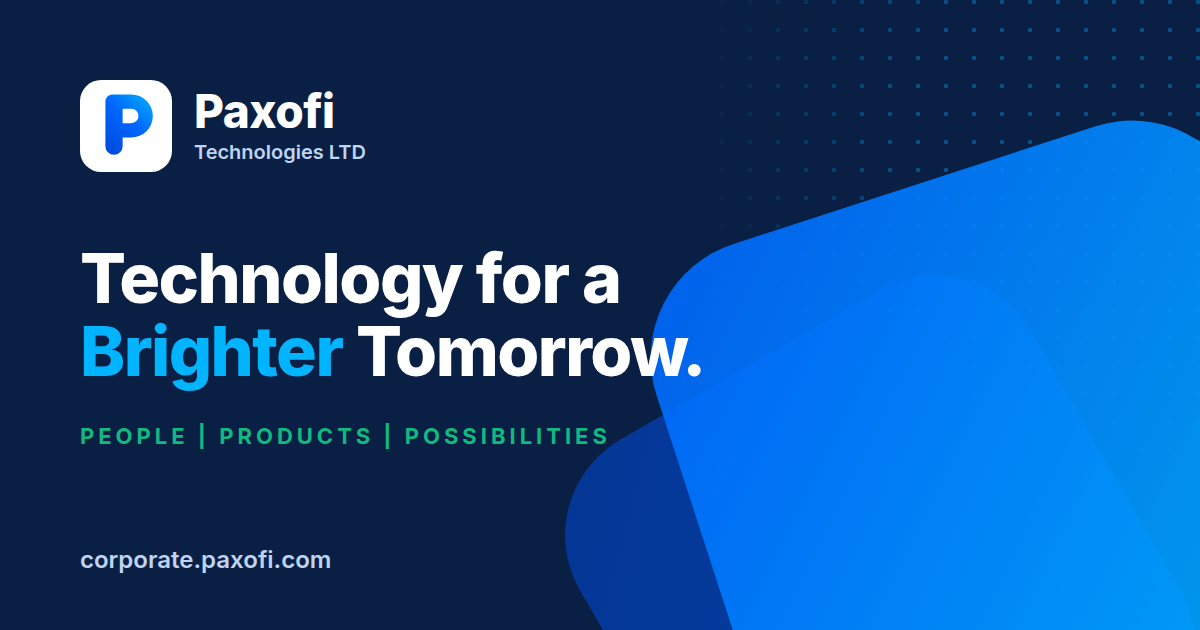
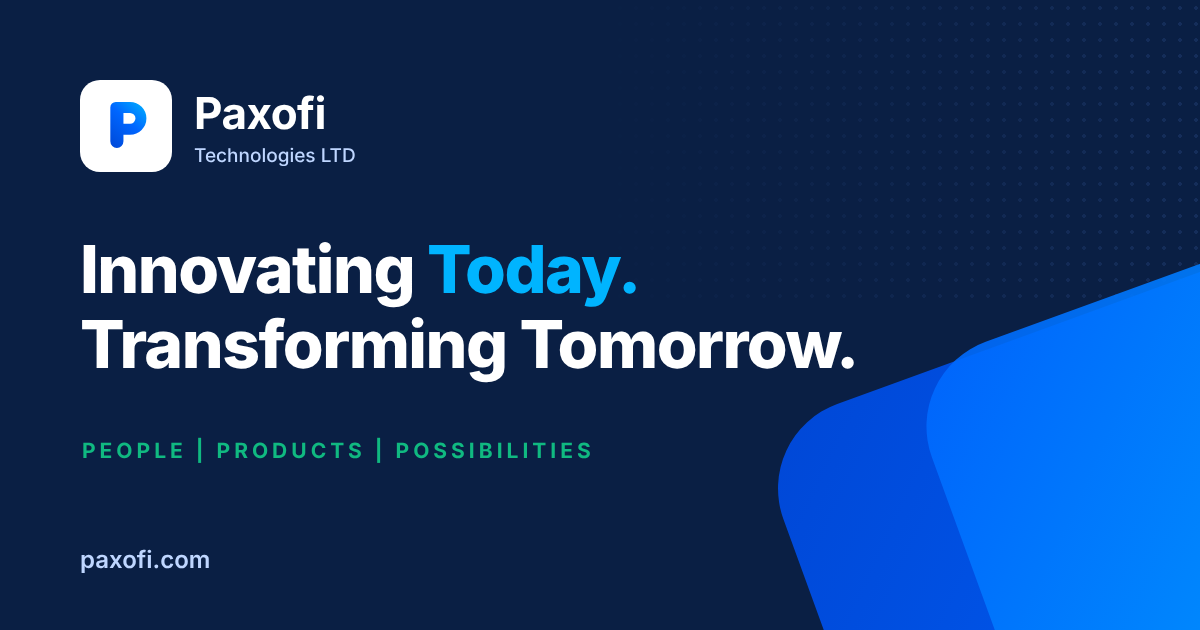
Taglines and share images (D-034); welcome email for new staff accounts
- paxofi.com: "Innovating Today. Transforming Tomorrow." as home headline
  default, browser title and share image (which also still said
  corporate.paxofi.com).
- careers.paxofi.com: "Build. Learn. Contribute." heading, "Real projects.
  Real mentors. Real growth." in the introduction, share description and
  its own share image /og-careers.png. scripts/share-images.mjs draws both.
- Users → Add user without a password queues a welcome email with a
  one-time link (72 hours) to choose a password; the account gets a random
  unusable password meanwhile. Without email the form asks for a temporary
  password, as before. Audited as staff.welcome_sent.
- Tests: integration (welcome email, link, sign-in; no email → 422), e2e
  for the Users form. Docs: D-034, RB-11, UAT U1, baseline.

Claude-Session: https://claude.ai/code/session_01FCYfkeKhnnwdTpLa6sCqyS

diff --git a/frontend/app/admin/(staff)/users/StaffUsers.tsx b/frontend/app/admin/(staff)/users/StaffUsers.tsx
@@ -39,7 +39,7 @@ export default function StaffUsers() {
     <>
       <h1 className="admin-title">Users</h1>
       <p className="admin-intro">
-        Staff who can sign in. Give each person a temporary password through a secure channel and ask them to change it on their account page.
+        Staff who can sign in. A new person gets a welcome email with a link to choose their own password (valid for 72 hours). Without email, set a temporary password and pass it on through a secure channel.
       </p>
       <FormStatus state="success" message={notice} />
       <FormStatus state="error" message={error} />
@@ -92,9 +92,11 @@ function CreateUser({ roles, onCreated }: { roles: RoleOption[]; onCreated: (mes
     setFields({});
     setError("");
     try {
-      const result = await request<StaffUser>("/users", { method: "POST", body: formValues(form) });
+      const result = await request<StaffUser & { welcome_email_sent?: boolean }>("/users", { method: "POST", body: formValues(form) });
       form.reset();
-      onCreated(`${result.data.display_name} can now sign in with the temporary password you set.`);
+      onCreated(result.data.welcome_email_sent
+        ? `${result.data.display_name} was added. A welcome email with a link to choose their password is on its way to ${result.data.email} (valid for 72 hours).`
+        : `${result.data.display_name} can now sign in with the temporary password you set.`);
     } catch (e) {
       if (e instanceof AdminApiError) {
         setFields(e.fields);
@@ -114,13 +116,12 @@ function CreateUser({ roles, onCreated }: { roles: RoleOption[]; onCreated: (mes
       <RoleSelect roles={roles} error={fields.role} />
       <Field
         name="password"
-        label="Temporary password"
+        label="Temporary password (optional)"
         type="password"
         autoComplete="new-password"
-        required
         minLength={12}
         maxLength={256}
-        hint={PASSWORD_HINT}
+        hint={`Leave empty to send a welcome email with a link to choose their own password. ${PASSWORD_HINT}`}
         error={fields.password}
       />
       <FormStatus state="error" message={error} />

diff --git a/frontend/app/careers-site/layout.tsx b/frontend/app/careers-site/layout.tsx
@@ -5,11 +5,11 @@ import { ArrowUpRight, Mail } from "lucide-react";
 import Logo from "@/components/Logo";
 import CampaignCapture from "./CampaignCapture";
 import { RECRUITMENT_EMAIL, careersSiteUrl } from "@/lib/careers";
-import { SHARE_IMAGE, SITE, siteUrl } from "@/lib/site";
+import { CAREERS_SHARE_IMAGE, SITE, siteUrl } from "@/lib/site";
 import { isStaging } from "@/lib/staging";
 
 const DESCRIPTION =
-  "Join the Paxofi Innovation Fellowship (PIF 2026) as a Fellow, Intern or Volunteer: remote, mentored, with real projects. An unpaid learning programme.";
+  "Build. Learn. Contribute. Join the Paxofi Innovation Fellowship (PIF 2026) as a Fellow, Intern or Volunteer: remote, mentored, with real projects. An unpaid learning programme.";
 
 /** careers.paxofi.com (D-018): its own address, title and search settings, read at run time. */
 export function generateMetadata(): Metadata {
@@ -18,8 +18,8 @@ export function generateMetadata(): Metadata {
     title: { default: "Careers at Paxofi — Paxofi Innovation Fellowship", template: "%s | Paxofi Careers" },
     description: DESCRIPTION,
     alternates: { canonical: "/" },
-    openGraph: { siteName: "Paxofi Careers", type: "website", url: "/", title: "Careers at Paxofi", description: DESCRIPTION, images: [SHARE_IMAGE] },
-    twitter: { card: "summary_large_image", title: "Careers at Paxofi", description: DESCRIPTION, images: [SHARE_IMAGE.url] },
+    openGraph: { siteName: "Paxofi Careers", type: "website", url: "/", title: "Careers at Paxofi", description: DESCRIPTION, images: [CAREERS_SHARE_IMAGE] },
+    twitter: { card: "summary_large_image", title: "Careers at Paxofi", description: DESCRIPTION, images: [CAREERS_SHARE_IMAGE.url] },
     robots: isStaging() ? { index: false, follow: false } : { index: true, follow: true },
   };
 }

diff --git a/frontend/app/layout.tsx b/frontend/app/layout.tsx
@@ -1,7 +1,7 @@
 import "@fontsource-variable/inter";
 import "./globals.css";
 import type { Metadata, Viewport } from "next";
-import { SHARE_IMAGE, SITE, siteUrl } from "@/lib/site";
+import { SHARE_IMAGE, SITE, TAGLINE, siteUrl } from "@/lib/site";
 import { isStaging } from "@/lib/staging";
 
 // Render every page per request. Prerendered pages are sent with
@@ -14,7 +14,7 @@ export const dynamic = "force-dynamic";
 
 const metadata: Metadata = {
   metadataBase: new URL(siteUrl()),
-  title: { default: `${SITE.name} — Technology for a Brighter Tomorrow`, template: `%s | ${SITE.name}` },
+  title: { default: `${SITE.name} — ${TAGLINE}`, template: `%s | ${SITE.name}` },
   description: SITE.description,
   openGraph: { siteName: SITE.name, type: "website", url: "/", title: SITE.name, description: SITE.description, images: [SHARE_IMAGE] },
   twitter: { card: "summary_large_image", title: SITE.name, description: SITE.description, images: [SHARE_IMAGE.url] },

diff --git a/frontend/lib/site.ts b/frontend/lib/site.ts
@@ -18,8 +18,19 @@ export const SHARE_IMAGE = {
   url: "/og-image.png",
   width: 1200,
   height: 630,
-  alt: "Paxofi Technologies — Technology for a Brighter Tomorrow.",
+  alt: "Paxofi Technologies — Innovating Today. Transforming Tomorrow.",
 };
+
+/** careers.paxofi.com share image: the PIF campaign headline (D-034). */
+export const CAREERS_SHARE_IMAGE = {
+  url: "/og-careers.png",
+  width: 1200,
+  height: 630,
+  alt: "Paxofi Innovation Fellowship — Build. Learn. Contribute.",
+};
+
+/** Corporate tagline (D-034). */
+export const TAGLINE = "Innovating Today. Transforming Tomorrow.";
 
 /**
  * Canonical site origin without a trailing slash (D-033: https://paxofi.com).

diff --git a/backend/tests/Integration/EmailTest.php b/backend/tests/Integration/EmailTest.php
@@ -129,6 +129,49 @@ final class EmailTest extends DatabaseTestCase
         );
     }
 
+    public function testANewStaffAccountGetsAWelcomeEmailToChooseItsOwnPassword(): void
+    {
+        $this->setupAdmin();
+        $admin = $this->signIn();
+        $app = $this->app();
+        $created = $this->call($app, 'POST', '/api/v1/admin/users', ['email' => 'Opeyemi@Paxofi.com', 'display_name' => 'Opeyemi Ogunshina', 'role' => 'human_resources'], $admin);
+        self::assertSame(201, $created->status(), $created->body());
+        self::assertTrue(self::decode($created)['data']['welcome_email_sent']);
+        $app->afterResponse();
+
+        $welcome = $this->mail->sent[count($this->mail->sent) - 1];
+        self::assertSame(['opeyemi@paxofi.com'], $welcome->to);
+        self::assertSame('Your Paxofi staff account', $welcome->subject);
+        self::assertStringContainsString('Samuel Adeniji has created a Paxofi staff account for you (Human Resources)', $welcome->text);
+        self::assertStringContainsString('within 72 hours', $welcome->text);
+        self::assertSame(1, preg_match('~https://corporate\.paxofi\.com/admin/reset-password#([A-Za-z0-9_-]{43})~', $welcome->text, $m));
+        self::assertSame('2026-10-07 10:00:00', self::scalar("SELECT expires_at FROM password_resets"), '72 hours');
+        self::assertSame(401, $this->call($this->app(), 'POST', '/api/v1/admin/session', ['email' => 'opeyemi@paxofi.com', 'password' => 'Guessing a pass phrase 1'])->status(), 'no usable password before the link');
+
+        self::assertSame(200, $this->call($this->app(), 'POST', '/api/v1/admin/password-reset/complete', ['token' => $m[1], 'password' => 'Her own pass phrase 2026'])->status());
+        self::assertSame(200, $this->call($this->app(), 'POST', '/api/v1/admin/session', ['email' => 'opeyemi@paxofi.com', 'password' => 'Her own pass phrase 2026'])->status());
+        self::assertSame(1, (int) self::scalar("SELECT COUNT(*) FROM audit_events WHERE action = 'staff.welcome_sent' AND outcome = 'success'"));
+
+        // A temporary password still works the old way, without an email.
+        $before = count($this->mail->sent);
+        $withPassword = $this->app();
+        $other = $this->call($withPassword, 'POST', '/api/v1/admin/users', ['email' => 'bd@paxofi.com', 'display_name' => 'Business Dev', 'role' => 'business_development', 'password' => 'Temporary pass phrase 7'], $admin);
+        self::assertSame(201, $other->status());
+        self::assertFalse(self::decode($other)['data']['welcome_email_sent']);
+        $withPassword->afterResponse();
+        self::assertCount($before, $this->mail->sent);
+    }
+
+    public function testWithoutEmailANewAccountNeedsATemporaryPassword(): void
+    {
+        $this->setupAdmin();
+        $admin = $this->signIn();
+        $response = $this->call($this->app(withMail: false), 'POST', '/api/v1/admin/users', ['email' => 'hr@paxofi.com', 'display_name' => 'HR', 'role' => 'human_resources'], $admin);
+        self::assertSame(422, $response->status());
+        self::assertStringContainsString('Email is not set up', self::decode($response)['error']['details']['fields']['password']);
+        self::assertSame(0, (int) self::scalar("SELECT COUNT(*) FROM users WHERE email = 'hr@paxofi.com'"));
+    }
+
     public function testResetLinksExpireAndRequestsAreLimited(): void
     {
         $this->setupAdmin();
@@ -204,10 +247,24 @@ final class EmailTest extends DatabaseTestCase
         self::assertSame(201, $response->status(), $response->body());
     }
 
-    /** @param array<string, mixed> $payload */
-    private function call(ApiApplication $app, string $method, string $uri, array $payload): HttpResponse
+    /** Signs the founder in; returns the session cookie value. */
+    private function signIn(): string
     {
-        return $app->handle(self::request($method, $uri, ['origin' => self::ORIGIN, 'content-type' => 'application/json'], json_encode($payload, JSON_THROW_ON_ERROR)));
+        $response = $this->call($this->app(), 'POST', '/api/v1/admin/session', ['email' => 'founder@paxofi.com', 'password' => self::PASSWORD]);
+        self::assertSame(1, preg_match('/^(?:__Host-)?paxofi_admin=([^;]+);/', (string) $response->header('set-cookie'), $match), $response->body());
+
+        return $match[1];
+    }
+
+    /** @param array<string, mixed> $payload */
+    private function call(ApiApplication $app, string $method, string $uri, array $payload, ?string $cookie = null): HttpResponse
+    {
+        $headers = ['origin' => self::ORIGIN, 'content-type' => 'application/json'];
+        if ($cookie !== null) {
+            $headers['cookie'] = 'paxofi_admin=' . $cookie;
+        }
+
+        return $app->handle(self::request($method, $uri, $headers, json_encode($payload, JSON_THROW_ON_ERROR)));
     }
 
     private function app(bool $withMail = true): ApiApplication

diff --git a/backend/src/Application/Admin/StaffAdminService.php b/backend/src/Application/Admin/StaffAdminService.php
@@ -21,6 +21,7 @@ final class StaffAdminService
         private readonly PasswordHashing $hasher,
         private readonly AuditRecorder $audit,
         private readonly TransactionManager $transactions,
+        private readonly ?PasswordResetService $welcome = null,
     ) {
     }
 
@@ -30,14 +31,25 @@ final class StaffAdminService
         return array_map(static fn (StaffUser $user): array => $user->toArray(), $this->staff->all());
     }
 
-    /** Creates an account with a temporary password the administrator passes on securely. */
+    /**
+     * Creates an account. Without a password, and with email set up, the person
+     * gets a welcome email with a one-time link to choose their own (D-034);
+     * with a password, the administrator passes that temporary password on.
+     */
     public function create(array $input, AuthenticatedStaff $actor, RequestContext $context): array
     {
         $errors = [];
         $email = StaffInput::email($input, $errors);
         $name = (string) StaffInput::displayName($input, $errors);
         $role = StaffInput::role($input, $errors);
-        $password = StaffInput::password($input, $email, $errors);
+        $invite = trim(is_string($input['password'] ?? null) ? $input['password'] : '') === '';
+        if ($invite && ($this->welcome === null || !$this->welcome->available())) {
+            $errors['password'] = 'Email is not set up, so enter a temporary password and pass it on yourself.';
+            $password = '';
+        } else {
+            // An invited account gets a random password nobody knows until the link is used.
+            $password = $invite ? bin2hex(random_bytes(32)) : StaffInput::password($input, $email, $errors);
+        }
         if ($errors !== []) {
             throw new ValidationFailed($errors, 'Please correct the highlighted fields.');
         }
@@ -45,14 +57,17 @@ final class StaffAdminService
             throw new Conflict('An account with this email already exists.');
         }
 
-        $id = $this->transactions->transaction(function () use ($email, $name, $role, $password, $actor, $context): string {
+        $id = $this->transactions->transaction(function () use ($email, $name, $role, $password, $invite, $actor, $context): string {
             $id = $this->staff->create($email, $name, $this->hasher->hash($password), $role);
             $this->audit->record(new AuditEvent('staff.created', AuditEvent::OUTCOME_SUCCESS, 'user', $id, $actor->user->id, $context->requestId));
+            if ($invite && $this->welcome !== null) {
+                $this->welcome->invite($this->staff->findById($id) ?? throw new ResourceNotFound(), $role, $actor->user->displayName, $context);
+            }
 
             return $id;
         });
 
-        return ($this->staff->findById((string) $id) ?? throw new ResourceNotFound())->toArray();
+        return ($this->staff->findById((string) $id) ?? throw new ResourceNotFound())->toArray() + ['welcome_email_sent' => $invite];
     }
 
     /** Changes name, role or status, or sets a new temporary password. */

diff --git a/backend/src/Application/Admin/PasswordResetService.php b/backend/src/Application/Admin/PasswordResetService.php
@@ -26,10 +26,13 @@ use Paxofi\CorporateWebsite\Application\RequestContext;
  * - Setting a new password signs the person out everywhere. Two-factor
  *   sign-in (D-010) still applies the next time they sign in.
  * - At most 3 requests per account and 10 per IP address an hour.
+ * - New staff accounts get the same kind of link in a welcome email (D-034),
+ *   valid for 72 hours, so nobody has to pass on a temporary password.
  */
 final class PasswordResetService
 {
     public const LINK_MINUTES = 30;
+    public const WELCOME_LINK_HOURS = 72;
     private const WINDOW_MINUTES = 60;
     private const MAX_PER_USER = 3;
     private const MAX_PER_IP = 10;
@@ -89,6 +92,35 @@ final class PasswordResetService
             ]) . "\n", kind: 'password_reset'));
             $this->audit->record(new AuditEvent('staff.password_reset.requested', AuditEvent::OUTCOME_SUCCESS, 'user', $user->id, requestId: $context->requestId));
         });
+    }
+
+    /**
+     * Queues the welcome email for a new account with a one-time link to set
+     * its own password (D-034). Call it inside the transaction that creates the
+     * account, so either both happen or neither does.
+     */
+    public function invite(StaffUser $user, Role $role, string $invitedBy, RequestContext $context): void
+    {
+        $now = ($this->clock)();
+        $token = rtrim(strtr(base64_encode(random_bytes(32)), '+/', '-_'), '=');
+        $this->resets->create(hash('sha256', $token), $user->id, $context->clientIp, $now, $now->modify('+' . self::WELCOME_LINK_HOURS . ' hours'));
+        $this->outbox->add(new Email([$user->email], 'Your Paxofi staff account', implode("\n", [
+            'Hello ' . Email::oneLine($user->displayName) . ',',
+            '',
+            Email::oneLine($invitedBy) . ' has created a Paxofi staff account for you (' . $role->label() . ').',
+            '',
+            'Open this link within ' . self::WELCOME_LINK_HOURS . ' hours to choose your password. It works once:',
+            '',
+            $this->mail->staffLink('/admin/reset-password#' . $token),
+            '',
+            'Then sign in at ' . $this->mail->staffLink('/admin') . ' with ' . $user->email . '.',
+            $role === Role::Administrator
+                ? 'Administrators set up two-factor sign-in with an authenticator app at the first sign-in.'
+                : 'You can turn on two-factor sign-in under My account; we recommend it.',
+            '',
+            'If the link has expired, use "Forgot password?" on the sign-in page. If you did not expect this email, tell us at the address it came from.',
+        ]) . "\n", kind: 'staff_welcome'));
+        $this->audit->record(new AuditEvent('staff.welcome_sent', AuditEvent::OUTCOME_SUCCESS, 'user', $user->id, requestId: $context->requestId));
     }
 
     public function complete(array $input, RequestContext $context): void

diff --git a/backend/src/Bootstrap/ApiApplication.php b/backend/src/Bootstrap/ApiApplication.php
@@ -510,6 +510,7 @@ final class ApiApplication implements HttpHandler
                 $this->hasher,
                 new PdoAuditRecorder($this->database),
                 new LazyTransactionManager($this->database),
+                $this->passwordResetService(),
             ),
             $this->adminGuard(),
         );

diff --git a/docs/DECISIONS.md b/docs/DECISIONS.md
@@ -618,3 +618,14 @@ Reviewed in the 30-day operational review (CW-OPS2-004) against actual UptimeRob
 - **Follow-up (owner, 13 Oct 2026):** `corporate.paxofi.com` is retired completely: its folders and DNS record are deleted, so old links to it no longer open (no redirect). Only `www.paxofi.com` redirects. UptimeRobot has six monitors (no old-address monitor), the check script checks only the www redirect, and `CORS_ALLOWED_ORIGINS` lists only `https://paxofi.com` and `https://careers.paxofi.com`. The staging copy will be `staging.paxofi.com` (with `api-staging.paxofi.com`), replacing `staging.corporate.paxofi.com`.
 - **Found during the move (13 Oct 2026):** a comment line in the API `.env` that lost its `#` stopped the API ("The service is misconfigured."; the careers roles and the staff area failed with it). Guide Step 10m now says to open `/api/v1/health` after every `.env` edit.
 - **Also found (13 Oct 2026):** after the move the corporate app had lost its `API_BASE_URL` variable. Step 10m now says to keep it; RB-3 lists it.
+
+## D-034 — Taglines, share images and a welcome email for new staff (15 Oct 2026)
+
+**Decision (owner, 15 Oct 2026):**
+
+- **Corporate tagline: "Innovating Today. Transforming Tomorrow."** It replaces "Technology for a Brighter Tomorrow" (D-002) as the home-page headline (page-text defaults), the browser title and the share image of paxofi.com. **Note:** PKDMS V1 Chapter 15 §15.3/§15.13 and Brand Guidelines v1.0 §1 still record "Technology for a Brighter Tomorrow" as the tagline adopted on 2 Oct 2026; Brand Guidelines §11 (added 15 Oct) records this decision, and the owner decides whether to revise Chapter 15 and §1.
+- **PIF headline: "Build. Learn. Contribute."** (Final Launch Production Pack), with **"Real projects. Real mentors. Real growth."** as the supporting line. careers.paxofi.com uses them in its heading, introduction, share description and its own share image (`/og-careers.png`).
+- **Share images** are drawn by `frontend/scripts/share-images.mjs` (both now show the current addresses; the old one still said corporate.paxofi.com).
+- **Kept for now:** the sign-off "A brighter tomorrow, together." and the value "A Brighter Tomorrow" (Brand Guidelines §1). A published override under Content → Page text wins over the new defaults: check Home and Careers there after deploying.
+- **Welcome email for new staff:** Users → *Add user* without a password emails the person a one-time link to choose their own password, valid 72 hours (`staff.welcome_sent`); the account has a random unusable password until then. If the link expires, "Forgot password?" sends a new one. A temporary password can still be set (needed when email is not set up; the form says so).
+

diff --git a/docs/RUNBOOKS.md b/docs/RUNBOOKS.md
@@ -100,6 +100,7 @@ Periods are decision D-008 (enquiries 24 months, IP/user-agent 90 days, audit ev
 
 Staff sign in at `https://paxofi.com/admin` (D-009). Roles: **Administrator** (enquiries, users, audit log) and **Business Development** (enquiries).
 
+- **Adding someone (D-034):** *Users* → *Add a user* → name, email, role, and leave the password empty. They get a welcome email with a link to choose their password, valid 72 hours; if it expires they use **Forgot password?** on the sign-in page. Check the email address carefully: it cannot be changed later (disable the account and add a new one instead).
 - **First administrator:** guide Step 7 (one-time `ADMIN_SETUP_TOKEN`; it only works while no accounts exist). Keep **two** administrators so one can always reset the other.
 - **The only administrator has lost their password:** engineering generates a password hash for a temporary password and sends the operator one SQL statement (`UPDATE users SET password_hash = '…' WHERE email = '…';`) to run in phpMyAdmin → SQL; the administrator then signs in and changes it at *My account*. Never paste a plain password into the database.
 - **Forgotten password:** an administrator → *Users* → **Edit** → new temporary password (signs that person out everywhere).

diff --git a/docs/UAT-PLAN.md b/docs/UAT-PLAN.md
@@ -18,7 +18,7 @@ Automated tests already cover these flows in Chromium, Firefox and WebKit on eve
 
 | # | Scenario | Steps | Expected | Desktop | iPhone | Android |
 |---|---|---|---|---|---|---|
-| U1 | First impression | Open https://corporate.paxofi.com | Home page loads within about 3 seconds, Paxofi branding (blue/navy), headline "Technology for a Brighter Tomorrow.", no errors, padlock shown | | | |
+| U1 | First impression | Open https://corporate.paxofi.com | Home page loads within about 3 seconds, Paxofi branding (blue/navy), headline "Innovating Today. Transforming Tomorrow." (D-034), no errors, padlock shown | | | |
 | U2 | Navigation | Use the menu to open About, Services, Products, Careers, then **Talk to us** | Each page opens; the current page is highlighted in the menu. On phones, the menu button opens and closes the menu | | | |
 | U3 | Content accuracy | Read every page, including the footer | Company name, products, services, values, email address and wording are correct and approved; no spelling mistakes; no placeholder text | | | |
 | U4 | Careers hand-off | Careers → **View opportunities** | careers.paxofi.com opens. No application form on the corporate site | | | |

diff --git a/docs/HANDOVER.md b/docs/HANDOVER.md
@@ -42,7 +42,7 @@ Dependabot proposes dependency updates weekly; CI blocks known vulnerabilities (
 
 | Document | Content |
 |---|---|
-| `DECISIONS.md` (PKDMS: Decision Register D-001 to D-033) | Every product and technical decision, newest last |
+| `DECISIONS.md` (PKDMS: Decision Register D-001 to D-034) | Every product and technical decision, newest last |
 | `PRODUCT-BASELINE.md` | Vision, sitemap, journeys, requirements, roles, workflow, change control |
 | `RUNBOOKS.md` | Operations, incidents, escalation, monitoring, secrets |
 | `ops/DEPLOYMENT-GUIDE.template.md` | Upload deployment (rendered per release, with PDF) |
